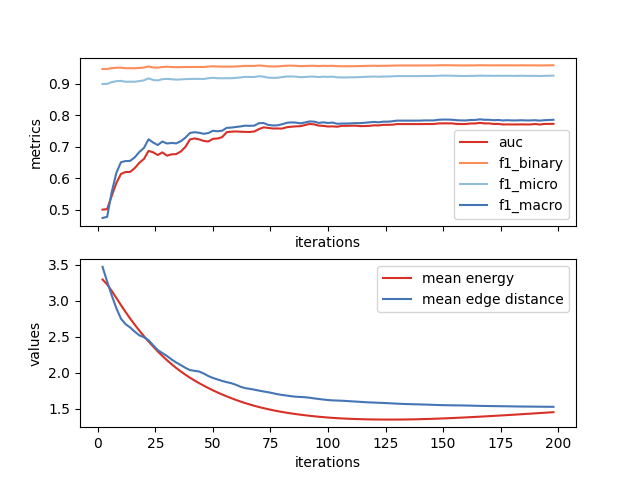
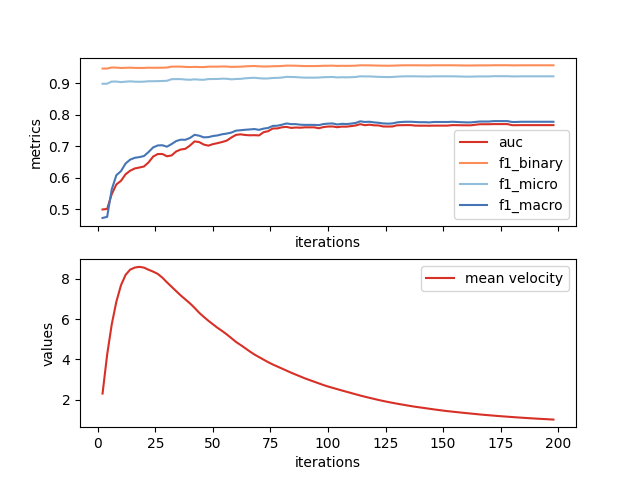
measure for jit and without

diff --git a/src/main.py b/src/main.py
@@ -49,7 +49,7 @@ def main(argv) -> None:
     #os.environ["XLA_PYTHON_CLIENT_ALLOCATOR"]="platform"
 
     # Set the precision to 64 bit in case of NaN gradients
-    jax.config.update("jax_enable_x64", True)
+    jax.config.update("jax_enable_x64", False)
     print(xla_bridge.get_backend().platform)
     # disable jit compilation for debugging
     jax.config.update("jax_disable_jit", False)
@@ -213,74 +213,72 @@ def main(argv) -> None:
     key_shots = random.split(key_test, TEST_SHOTS)     
     graph = {}
 
-    for shot in range(TEST_SHOTS):
+    for i in range(2):
+        if i == 0:
+            jax.config.update("jax_disable_jit", False)
+            print("JIT enabled")
+        else:
+            jax.config.update("jax_disable_jit", True)
+            print("JIT disabled")
 
-        graph = g.to_SignedGraph(dataset, convert_to_undirected)
+        for shot in range(TEST_SHOTS):
 
-        training_signs = graph.sign.copy()
-        training_signs = jnp.where(graph.train_mask, training_signs, 0)
-        training_graph = graph._replace(sign=training_signs)
-        training_signs_one_hot = jax.nn.one_hot(training_signs + 1, 3)
-        training_graph = training_graph._replace(sign_one_hot=training_signs_one_hot)
+            graph = g.to_SignedGraph(dataset, convert_to_undirected)
 
-        start_time = timer()
-        print(f"Running shot {shot + 1} of {TEST_SHOTS}")
-   
-        # initialize spring state
-        node_state = sm.init_node_state(
-            rng=key_shots[shot],
-            n=graph.num_nodes,
-            m=graph.num_edges,
-            range=INIT_POS_RANGE,
-            embedding_dim=EMBEDDING_DIM
-        )
+            training_signs = graph.sign.copy()
+            training_signs = jnp.where(graph.train_mask, training_signs, 0)
+            training_graph = graph._replace(sign=training_signs)
+            training_signs_one_hot = jax.nn.one_hot(training_signs + 1, 3)
+            training_graph = training_graph._replace(sign_one_hot=training_signs_one_hot)
 
-        simulation_params_test = sm.SimulationParams(
-            iterations=schedule_params['test_iterations'],
-            dt=schedule_params['test_dt'],
-            damping=schedule_params['test_damping'])
+            start_time = timer()
+            print(f"Running shot {shot + 1} of {TEST_SHOTS}")
+
+            # initialize spring state
+            node_state = sm.init_node_state(
+                rng=key_shots[shot],
+                n=graph.num_nodes,
+                m=graph.num_edges,
+                range=INIT_POS_RANGE,
+                embedding_dim=EMBEDDING_DIM
+            )
+
+            simulation_params_test = sm.SimulationParams(
+                iterations=schedule_params['test_iterations'],
+                dt=schedule_params['test_dt'],
+                damping=schedule_params['test_damping'])
+            
+            node_state = sm.simulate(
+                simulation_params=simulation_params_test,
+                node_state=node_state, 
+                use_neural_force=use_neural_froce,
+                force_params=force_params,
+                graph=training_graph)
+            
+            end_time = timer()
+            print(f"Shot {shot + 1} took {end_time - start_time} seconds")
+            times.append(end_time - start_time)
+
+            metrics, pred = sm.evaluate(
+                node_state,
+                graph.edge_index,
+                graph.sign,
+                graph.train_mask,
+                graph.test_mask)
         
-        node_state = sm.simulate(
-            simulation_params=simulation_params_test,
-            node_state=node_state, 
-            use_neural_force=use_neural_froce,
-            force_params=force_params,
-            graph=training_graph)
-        
-        end_time = timer()
-        print(f"Shot {shot + 1} took {end_time - start_time} seconds")
-        times.append(end_time - start_time)
+            shot_metrics.append(metrics)
 
-        metrics, pred = sm.evaluate(
-            node_state,
-            graph.edge_index,
-            graph.sign,
-            graph.train_mask,
-            graph.test_mask)
-        
-        pred_mu = sm.predict(node_state, graph, 0)
-        pred_mu = pred_mu.at[graph.test_mask].get()
-        pred_mu = jnp.where(pred_mu > 0.5, 1, -1)
+        print(f"average metrics over {TEST_SHOTS} shots:")
+        print(f"auc: {np.mean([metrics.auc for metrics in shot_metrics])}")
+        print(f"f1_binary: {np.mean([metrics.f1_binary for metrics in shot_metrics])}")
+        print(f"f1_micro: {np.mean([metrics.f1_micro for metrics in shot_metrics])}")
+        print(f"f1_macro: {np.mean([metrics.f1_macro for metrics in shot_metrics])}")
+        print(f"std auc: {np.std([metrics.auc for metrics in shot_metrics])}")
+        print(f"std f1_binary: {np.std([metrics.f1_binary for metrics in shot_metrics])}")
+        print(f"std f1_micro: {np.std([metrics.f1_micro for metrics in shot_metrics])}")
+        print(f"std f1_macro: {np.std([metrics.f1_macro for metrics in shot_metrics])}")
 
-        
-        print(f"log regr pred vs mu pred diff: {jnp.mean(jnp.abs(pred - pred_mu))}")
-        print(pred)
-        print(pred_mu)
-    
-        
-        shot_metrics.append(metrics)
-
-    print(f"average metrics over {TEST_SHOTS} shots:")
-    print(f"auc: {np.mean([metrics.auc for metrics in shot_metrics])}")
-    print(f"f1_binary: {np.mean([metrics.f1_binary for metrics in shot_metrics])}")
-    print(f"f1_micro: {np.mean([metrics.f1_micro for metrics in shot_metrics])}")
-    print(f"f1_macro: {np.mean([metrics.f1_macro for metrics in shot_metrics])}")
-    print(f"std auc: {np.std([metrics.auc for metrics in shot_metrics])}")
-    print(f"std f1_binary: {np.std([metrics.f1_binary for metrics in shot_metrics])}")
-    print(f"std f1_micro: {np.std([metrics.f1_micro for metrics in shot_metrics])}")
-    print(f"std f1_macro: {np.std([metrics.f1_macro for metrics in shot_metrics])}")
-
-    print(f"average time per shot: {np.mean(times)}")
+        print(f"average time per shot: {np.mean(times)}")
 
     questions = [
         inquirer.List('save',
@@ -355,7 +353,7 @@ def main(argv) -> None:
         ax1.legend()
        
         ax2.plot(iterations_hist, vel_hist, label='mean velocity', color='#d73027')
-        ax2.plot(iterations_hist, acc_hist, label='mean acceleration', color='#fc8d59')
+        # ax2.plot(iterations_hist, acc_hist, label='mean acceleration', color='#fc8d59')
 
         # ax2.plot(iterations_hist, mean_edge_distance, label='mean edge distance', color='#4575b4')
         ax2.set_xlabel('iterations')

diff --git a/plots/training.py b/plots/training.py
@@ -15,7 +15,7 @@ plt.show()
 #colors = plt.cm.get_cmap('Set1', 10)
 colors = ['#d73027', '#4575b4', '#91bfdb', '#984ea3', '#ff7f00']
 # Three subplots with shared x axis
-fig, (ax1, ax2, ax3, ax4) = plt.subplots(4, 1, sharex=True)
+fig, (ax1, ax2) = plt.subplots(2, 1, sharex=True)
 # plot metrics over time
 ax1.plot(epochs, data.auc, color=colors[0])
 ax1.plot(epochs, data.f1_macro, color=colors[1])
@@ -26,14 +26,9 @@ ax1.legend(['AUC', 'F1 macro'], loc='lower right')
 
 ax2.plot(epochs, data.loss, color=colors[0])
 ax2.legend(['loss'], loc='upper right')
-
-ax3.plot(epochs, data.dt, color=colors[0])
-ax3.plot(epochs, data.damping, color=colors[1])
-
-ax3.legend(['dt', 'damping'], loc='upper right')
-
-ax4.plot(epochs, data.iterations, color=colors[0])
-ax4.legend(['iterations'], loc='lower right')
-ax4.set_xlabel('epochs')
+# set y log
+plt.yscale('log')
+# set x label
+plt.xlabel('epochs')
 
 plt.show()
